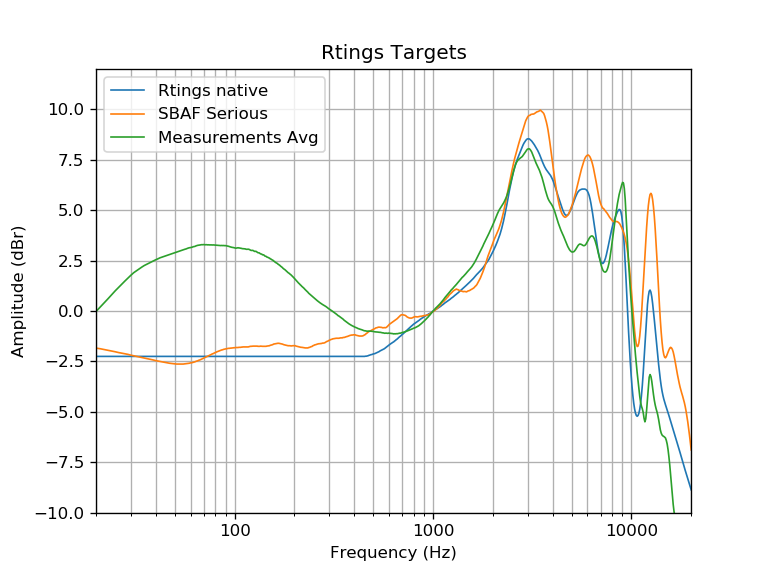
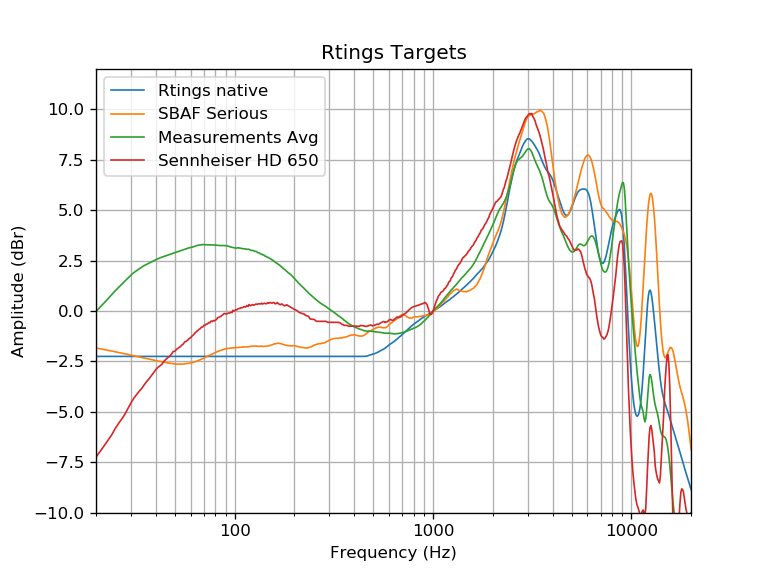
Rtings results. Added Sennheiser HD 650 to Rtings target comparisons.

diff --git a/rtings/rtings_targets.py b/rtings/rtings_targets.py
@@ -17,12 +17,14 @@ def main():
     serious = FrequencyResponse.read_from_csv('resources/rtings_compensation_sbaf-serious.csv')
     native = FrequencyResponse.read_from_csv('resources/rtings_compensation.csv')
     avg = measurements_avg()
+    hd650 = FrequencyResponse.read_from_csv('data/onear/Sennheiser HD 650/Sennheiser HD 650.csv')
 
     fig, ax = native.plot_graph(show=False, color=None)
     serious.plot_graph(fig=fig, ax=ax, show=False, color=None)
     avg.plot_graph(fig=fig, ax=ax, show=False, color=None)
+    hd650.plot_graph(fig=fig, ax=ax, show=False, color=None)
 
-    plt.legend(['Rtings native', 'SBAF Serious', 'Measurements Avg'])
+    plt.legend(['Rtings native', 'SBAF Serious', 'Measurements Avg', 'Sennheiser HD 650'])
     plt.title('Rtings Targets')
     plt.ylim([-10.0, 12.0])
     plt.show()